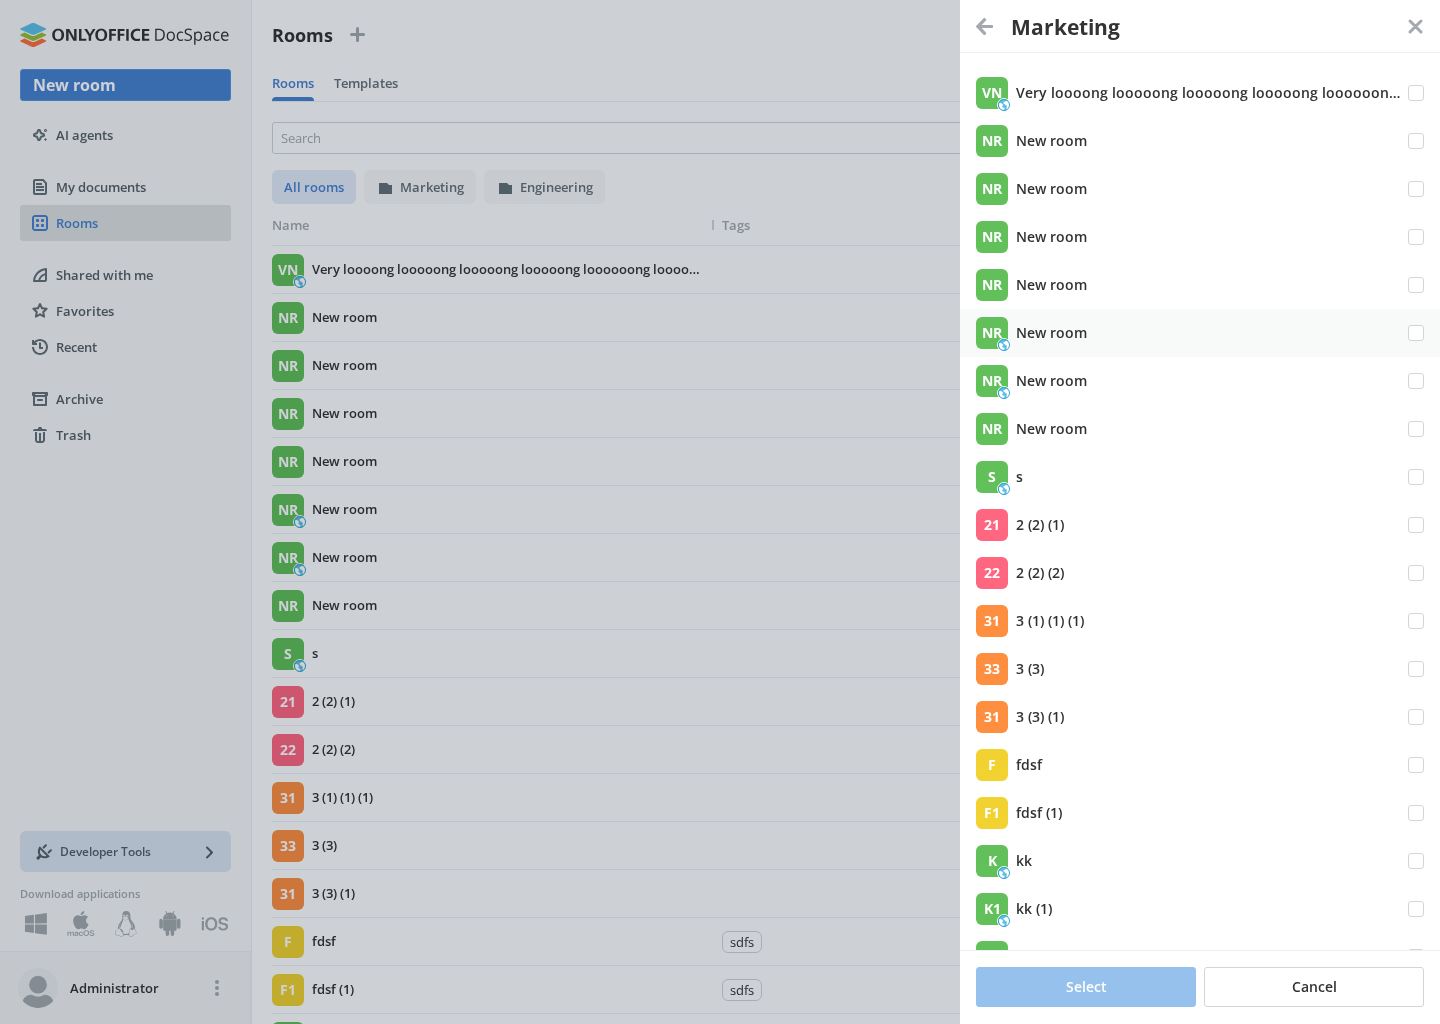
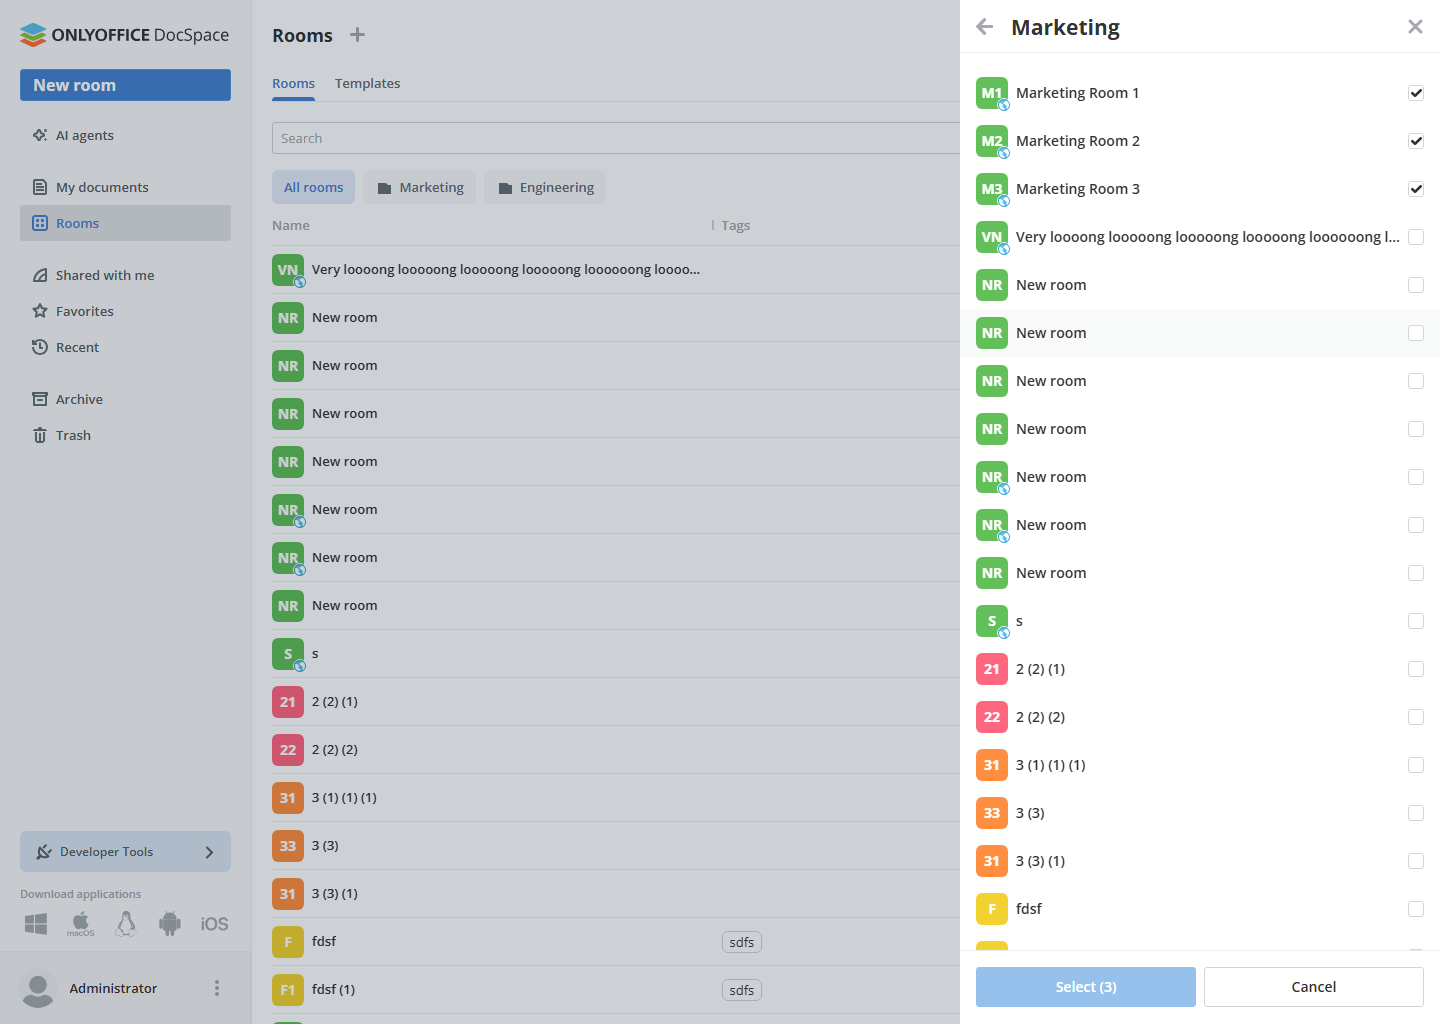
Shared:Mocks: add additional marketing and engineering rooms to room list mock data, update screenshot

diff --git a/packages/shared/__mocks__/handlers/files/roomList.ts b/packages/shared/__mocks__/handlers/files/roomList.ts
@@ -1991,6 +1991,366 @@ const getRoomList = (filtered: boolean = false) => {
         hasAvatar: false,
       },
     },
+    {
+      parentId: 2002,
+      filesCount: 0,
+      foldersCount: 0,
+      new: 0,
+      mute: false,
+      tags: [],
+      logo: {
+        original: "",
+        large: "",
+        medium: "",
+        small: "",
+        color: "61C059",
+      },
+      pinned: false,
+      roomType: 6,
+      private: false,
+      indexing: false,
+      denyDownload: false,
+      inRoom: true,
+      usedSpace: 0,
+      fileEntryType: 1,
+      id: 101,
+      rootFolderId: 2002,
+      canShare: true,
+      security: {
+        Read: true,
+        Create: true,
+        Delete: false,
+        EditRoom: true,
+        Rename: true,
+        CopyTo: true,
+        Copy: true,
+        MoveTo: true,
+        Move: true,
+        Pin: true,
+        Mute: true,
+        EditAccess: true,
+        Duplicate: true,
+        Download: true,
+        CopySharedLink: true,
+        Reconnect: false,
+        CreateRoomFrom: false,
+        CopyLink: true,
+        Embed: true,
+        ChangeOwner: true,
+        IndexExport: false,
+        UseChat: false,
+      },
+      title: "Marketing Room 1",
+      access: 0,
+      shared: true,
+      created: "2025-01-15T12:00:00.000Z",
+      createdBy: {
+        id: "66faa6e4-f133-11ea-b126-00ffeec8b4ef",
+        displayName: "Administrator ",
+        avatarSmall:
+          "/static/images/default_user_photo_size_32-32.png?hash=520061207",
+        profileUrl: "",
+        hasAvatar: false,
+      },
+      updated: "2025-01-15T12:00:00.000Z",
+      rootFolderType: 14,
+      updatedBy: {
+        id: "66faa6e4-f133-11ea-b126-00ffeec8b4ef",
+        displayName: "Administrator ",
+        avatarSmall:
+          "/static/images/default_user_photo_size_32-32.png?hash=520061207",
+        profileUrl: "",
+        hasAvatar: false,
+      },
+    },
+    {
+      parentId: 2002,
+      filesCount: 0,
+      foldersCount: 0,
+      new: 0,
+      mute: false,
+      tags: [],
+      logo: {
+        original: "",
+        large: "",
+        medium: "",
+        small: "",
+        color: "61C059",
+      },
+      pinned: false,
+      roomType: 6,
+      private: false,
+      indexing: false,
+      denyDownload: false,
+      inRoom: true,
+      usedSpace: 0,
+      fileEntryType: 1,
+      id: 102,
+      rootFolderId: 2002,
+      canShare: true,
+      security: {
+        Read: true,
+        Create: true,
+        Delete: false,
+        EditRoom: true,
+        Rename: true,
+        CopyTo: true,
+        Copy: true,
+        MoveTo: true,
+        Move: true,
+        Pin: true,
+        Mute: true,
+        EditAccess: true,
+        Duplicate: true,
+        Download: true,
+        CopySharedLink: true,
+        Reconnect: false,
+        CreateRoomFrom: false,
+        CopyLink: true,
+        Embed: true,
+        ChangeOwner: true,
+        IndexExport: false,
+        UseChat: false,
+      },
+      title: "Marketing Room 2",
+      access: 0,
+      shared: true,
+      created: "2025-01-15T12:00:00.000Z",
+      createdBy: {
+        id: "66faa6e4-f133-11ea-b126-00ffeec8b4ef",
+        displayName: "Administrator ",
+        avatarSmall:
+          "/static/images/default_user_photo_size_32-32.png?hash=520061207",
+        profileUrl: "",
+        hasAvatar: false,
+      },
+      updated: "2025-01-15T12:00:00.000Z",
+      rootFolderType: 14,
+      updatedBy: {
+        id: "66faa6e4-f133-11ea-b126-00ffeec8b4ef",
+        displayName: "Administrator ",
+        avatarSmall:
+          "/static/images/default_user_photo_size_32-32.png?hash=520061207",
+        profileUrl: "",
+        hasAvatar: false,
+      },
+    },
+    {
+      parentId: 2002,
+      filesCount: 0,
+      foldersCount: 0,
+      new: 0,
+      mute: false,
+      tags: [],
+      logo: {
+        original: "",
+        large: "",
+        medium: "",
+        small: "",
+        color: "61C059",
+      },
+      pinned: false,
+      roomType: 6,
+      private: false,
+      indexing: false,
+      denyDownload: false,
+      inRoom: true,
+      usedSpace: 0,
+      fileEntryType: 1,
+      id: 103,
+      rootFolderId: 2002,
+      canShare: true,
+      security: {
+        Read: true,
+        Create: true,
+        Delete: false,
+        EditRoom: true,
+        Rename: true,
+        CopyTo: true,
+        Copy: true,
+        MoveTo: true,
+        Move: true,
+        Pin: true,
+        Mute: true,
+        EditAccess: true,
+        Duplicate: true,
+        Download: true,
+        CopySharedLink: true,
+        Reconnect: false,
+        CreateRoomFrom: false,
+        CopyLink: true,
+        Embed: true,
+        ChangeOwner: true,
+        IndexExport: false,
+        UseChat: false,
+      },
+      title: "Marketing Room 3",
+      access: 0,
+      shared: true,
+      created: "2025-01-15T12:00:00.000Z",
+      createdBy: {
+        id: "66faa6e4-f133-11ea-b126-00ffeec8b4ef",
+        displayName: "Administrator ",
+        avatarSmall:
+          "/static/images/default_user_photo_size_32-32.png?hash=520061207",
+        profileUrl: "",
+        hasAvatar: false,
+      },
+      updated: "2025-01-15T12:00:00.000Z",
+      rootFolderType: 14,
+      updatedBy: {
+        id: "66faa6e4-f133-11ea-b126-00ffeec8b4ef",
+        displayName: "Administrator ",
+        avatarSmall:
+          "/static/images/default_user_photo_size_32-32.png?hash=520061207",
+        profileUrl: "",
+        hasAvatar: false,
+      },
+    },
+    {
+      parentId: 2002,
+      filesCount: 0,
+      foldersCount: 0,
+      new: 0,
+      mute: false,
+      tags: [],
+      logo: {
+        original: "",
+        large: "",
+        medium: "",
+        small: "",
+        color: "61C059",
+      },
+      pinned: false,
+      roomType: 6,
+      private: false,
+      indexing: false,
+      denyDownload: false,
+      inRoom: true,
+      usedSpace: 0,
+      fileEntryType: 1,
+      id: 201,
+      rootFolderId: 2002,
+      canShare: true,
+      security: {
+        Read: true,
+        Create: true,
+        Delete: false,
+        EditRoom: true,
+        Rename: true,
+        CopyTo: true,
+        Copy: true,
+        MoveTo: true,
+        Move: true,
+        Pin: true,
+        Mute: true,
+        EditAccess: true,
+        Duplicate: true,
+        Download: true,
+        CopySharedLink: true,
+        Reconnect: false,
+        CreateRoomFrom: false,
+        CopyLink: true,
+        Embed: true,
+        ChangeOwner: true,
+        IndexExport: false,
+        UseChat: false,
+      },
+      title: "Engineering Room 1",
+      access: 0,
+      shared: true,
+      created: "2025-01-15T12:00:00.000Z",
+      createdBy: {
+        id: "66faa6e4-f133-11ea-b126-00ffeec8b4ef",
+        displayName: "Administrator ",
+        avatarSmall:
+          "/static/images/default_user_photo_size_32-32.png?hash=520061207",
+        profileUrl: "",
+        hasAvatar: false,
+      },
+      updated: "2025-01-15T12:00:00.000Z",
+      rootFolderType: 14,
+      updatedBy: {
+        id: "66faa6e4-f133-11ea-b126-00ffeec8b4ef",
+        displayName: "Administrator ",
+        avatarSmall:
+          "/static/images/default_user_photo_size_32-32.png?hash=520061207",
+        profileUrl: "",
+        hasAvatar: false,
+      },
+    },
+    {
+      parentId: 2002,
+      filesCount: 0,
+      foldersCount: 0,
+      new: 0,
+      mute: false,
+      tags: [],
+      logo: {
+        original: "",
+        large: "",
+        medium: "",
+        small: "",
+        color: "61C059",
+      },
+      pinned: false,
+      roomType: 6,
+      private: false,
+      indexing: false,
+      denyDownload: false,
+      inRoom: true,
+      usedSpace: 0,
+      fileEntryType: 1,
+      id: 202,
+      rootFolderId: 2002,
+      canShare: true,
+      security: {
+        Read: true,
+        Create: true,
+        Delete: false,
+        EditRoom: true,
+        Rename: true,
+        CopyTo: true,
+        Copy: true,
+        MoveTo: true,
+        Move: true,
+        Pin: true,
+        Mute: true,
+        EditAccess: true,
+        Duplicate: true,
+        Download: true,
+        CopySharedLink: true,
+        Reconnect: false,
+        CreateRoomFrom: false,
+        CopyLink: true,
+        Embed: true,
+        ChangeOwner: true,
+        IndexExport: false,
+        UseChat: false,
+      },
+      title: "Engineering Room 2",
+      access: 0,
+      shared: true,
+      created: "2025-01-15T12:00:00.000Z",
+      createdBy: {
+        id: "66faa6e4-f133-11ea-b126-00ffeec8b4ef",
+        displayName: "Administrator ",
+        avatarSmall:
+          "/static/images/default_user_photo_size_32-32.png?hash=520061207",
+        profileUrl: "",
+        hasAvatar: false,
+      },
+      updated: "2025-01-15T12:00:00.000Z",
+      rootFolderType: 14,
+      updatedBy: {
+        id: "66faa6e4-f133-11ea-b126-00ffeec8b4ef",
+        displayName: "Administrator ",
+        avatarSmall:
+          "/static/images/default_user_photo_size_32-32.png?hash=520061207",
+        profileUrl: "",
+        hasAvatar: false,
+      },
+    },
   ];
 
   const filteredFolder = folders.filter((f, i) => i > 20);